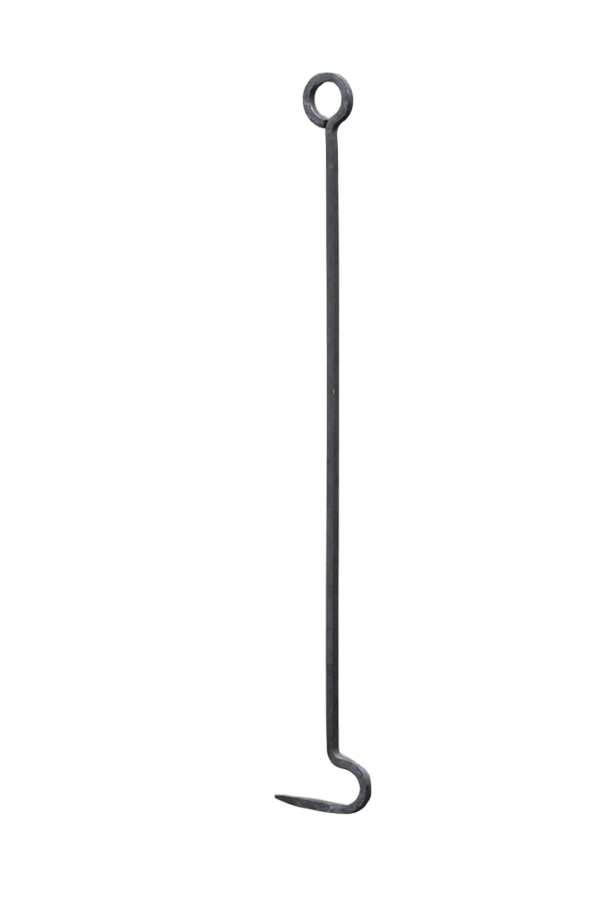
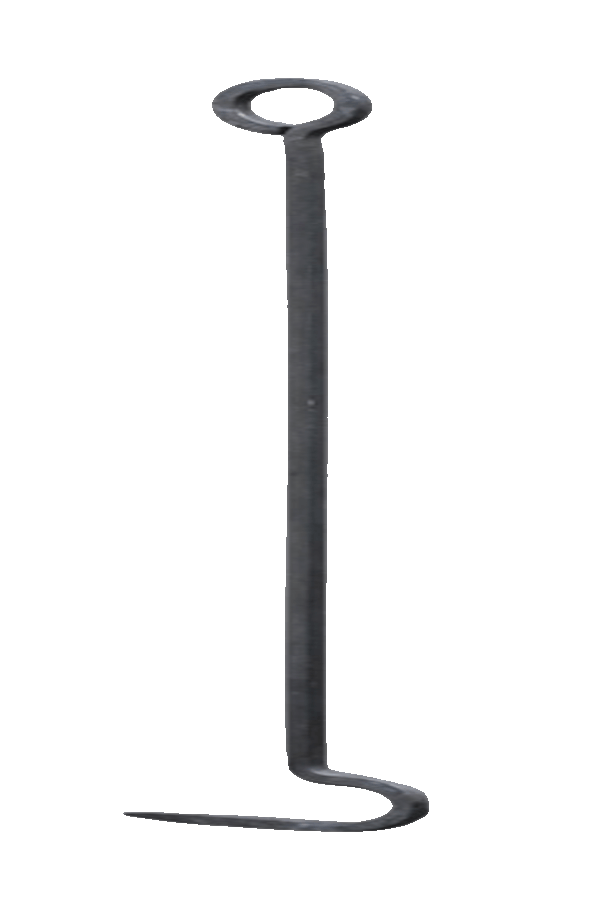
feat: key2 in cassette added, but is not drawn yet -> fix necessary

Changed region(s): [[0.21, 0.0623, 0.72, 0.9344]]

diff --git a/src/escape_room/objects/metal_cassette.py b/src/escape_room/objects/metal_cassette.py
@@ -32,9 +32,9 @@ class MetalCassette():
 
 			included_diamond_id = room_data["metal_cassette"][index][2]       
 			diamond_found=False
-			# is some key included?
+			# is some diamond included?
 			if(included_diamond_id!=""):
-				# try to find the key object via the ID
+				# try to find the diamond object via the ID
 				for diamond in ContextManager().get_room().diamond:
 					if diamond.unique_id == included_diamond_id:
 						diamond_found=True
@@ -43,10 +43,26 @@ class MetalCassette():
 				diamond=None
 			self.diamond = diamond
 
+			included_key_id = room_data["metal_cassette"][index][3]       
+			key_found=False
+			# is some key included?
+			if(included_key_id!=""):
+				# try to find the key object via the ID
+				for key in ContextManager().get_room().key:
+					if key.unique_id == included_key_id:
+						key_found=True
+						break
+			if not key_found:
+				key=None
+			self.key = key			
+
 		def draw(self, canvas, inventory, player_name):
 			if self.room_state.get_state_object("fireplace","fireplace1") == "secret compartment opened":
 				graphics.draw(canvas,self.metal_cassette_coordinates,object=self,tag="metal_cassette",shift_coordinates=self.shift_coordinates)
 				canvas.tag_bind("metal_cassette","<Button-1>", lambda event: self.clicked(self, canvas, inventory, player_name))
+				if self.room_state.get_state_object("metal_cassette","metal_cassette1") == "opened":
+					graphics.draw(canvas,self.metal_cassette_opened,object=self,tag="metal_cassette",shift_coordinates=self.shift_coordinates)
+
 
 		def clicked(event, self, canvas, inventory, player_name):
 			if inventory.objectIsSelected("revolver", player_name) == True:
@@ -54,6 +70,8 @@ class MetalCassette():
 				self.room_state.set_state_object("metal_cassette","metal_cassette1","opened")
 				for diamond in ContextManager().get_room().diamond:
 					diamond.draw(canvas)
+				for key in ContextManager().get_room().key:
+					key.draw(canvas)
 				canvas.tag_raise("chair", "metal_cassette")
 				canvas.tag_raise("letter", "chair")
 				

diff --git a/src/escape_room/objects/inventory_item.py b/src/escape_room/objects/inventory_item.py
@@ -95,11 +95,25 @@ class InventoryItem:
         if self.name == "key": # key may be hidden in safe
             draw_key = True
             for safe in ContextManager().get_room().safe: # look for associated safe
-                if (self.unique_id == safe.key.unique_id and safe.state == 1): # safe is open
-                    break
-                elif (self.unique_id == safe.key.unique_id and safe.state == 0): # safe is closed
-                    draw_key = False
-                    break
+                if self.unique_id == safe.key.unique_id:
+                    container = "safe"
+                    if safe.state == 1: # safe is open
+                        break
+                    elif safe.state == 0: # safe is closed
+                        draw_key = False
+                        break
+            if not draw_key:
+                return # key is hidden => do not draw it!
+
+            for index, cassette in enumerate(ContextManager().get_room().metal_cassette): # look for associated metal cassette
+                unique_id = ContextManager().get_room().room_data["metal_cassette"][index][1]
+                if self.unique_id == cassette.key.unique_id:
+                    container = "cassette"
+                    if self.room_state.get_state_object("metal_cassette",unique_id) == "opened": # cassette is open
+                        break
+                    else: # cassette is closed
+                        draw_key = False
+                        break
             if not draw_key:
                 return # key is hidden => do not draw it!
 

diff --git a/src/escape_room/room/room_data.py b/src/escape_room/room/room_data.py
@@ -179,7 +179,7 @@ living_room_221b = {
                 ],
         "chair": [[(4.00,0,2.00),"front","chair1"] 
                 ],
-        "key": [{"coord": (0.5,1.25,5.0),"unique_id": "key1"} # key 1 => key1 is a global identifier of the key!
+        "key": [{"coord": (0.5,1.25,5.0),"unique_id": "key1"}, {"coord": (1.1, 0.34, 3.50),"unique_id": "key2"}
                 ],
         "wardrobe": [
                 ],
@@ -214,7 +214,7 @@ living_room_221b = {
                 ],
         "poker":[{"coord": (2.3, 0, 3.5), "unique_id": "poker1"}
                 ],
-        "metal_cassette":[[(3.78, 0.37, 3.50), "metal_cassette1", "diamond1"]
+        "metal_cassette":[[(3.78, 0.37, 3.50), "metal_cassette1", "diamond1", "key2"]
                 ],
         "diamond": [{"coord": (1.1, 0.34, 3.50), "unique_id": "diamond1"}
                 ]
